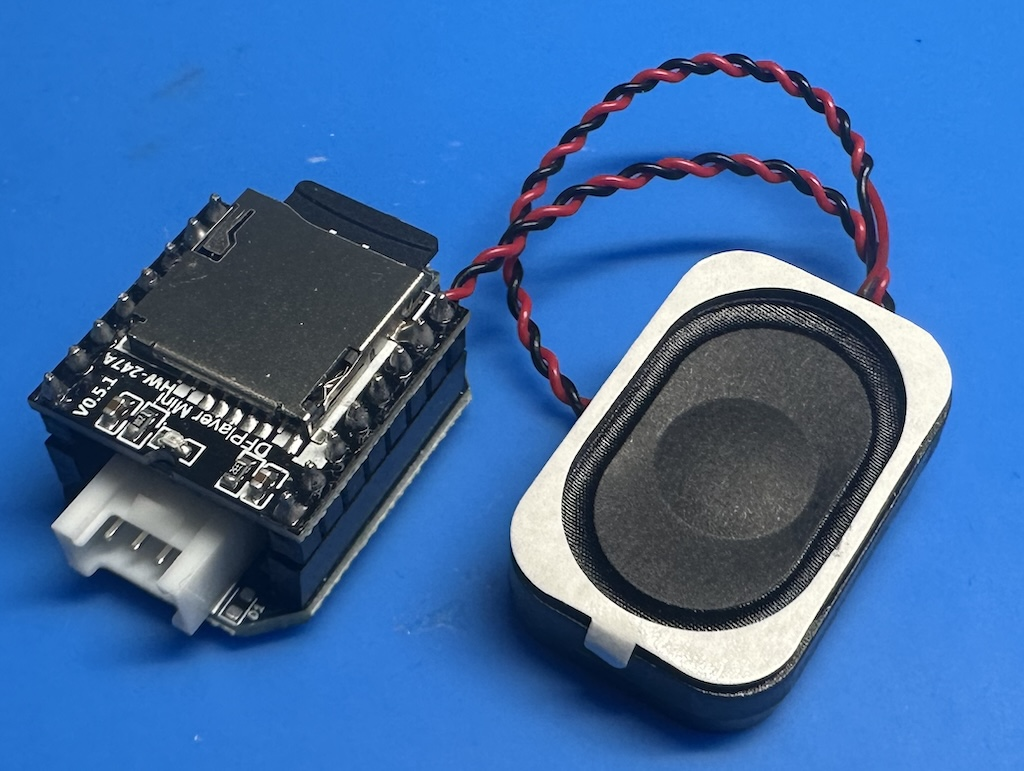
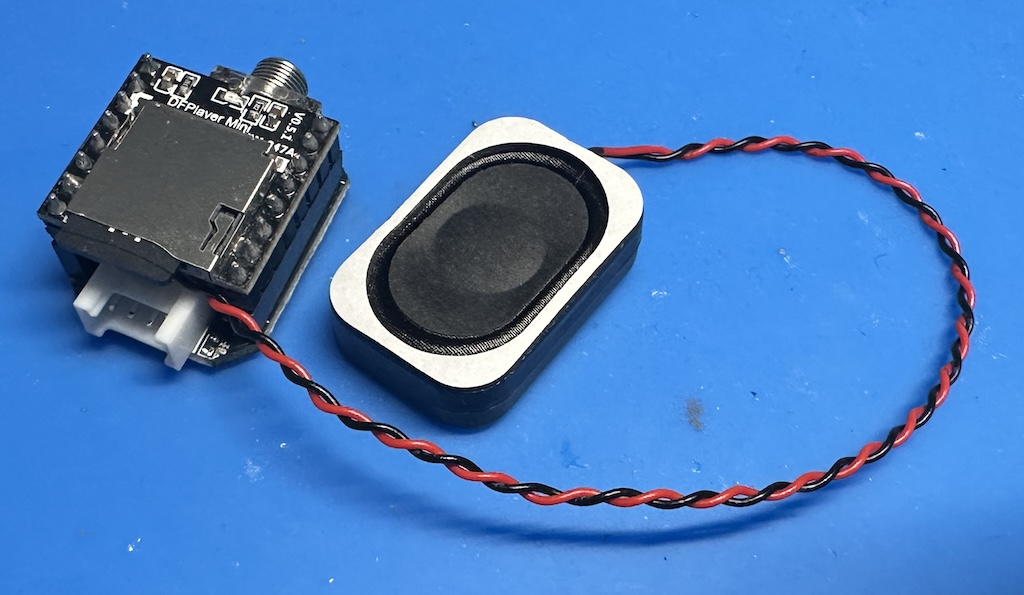
update photo

diff --git a/README.md b/README.md
@@ -29,8 +29,7 @@ DFRobotの音声プレーヤモジュール[DFPlayer(DFPlayerMini)](https://www.
 
 基板中央部の1.25mmピッチコネクタ(Molex 53047-0210用)にスピーカを接続します。市販の小型スピーカ（M5Stack本体に使われているものなど。AliExpressやTaobaoでも同等品があります）を接続することができます。
 
-※こちらの2つめのスピーカつき写真では、DFPlayerMiniの向きが逆になっています。写真は近日中に差し替えます。申し訳ありません。
-
+※当初掲載していた"DFPlayerMini"をとりつけた状態の写真で、DFPlayerMiniの向きが逆になっていました。こちらの写真が正しいです。
 
 ### 3.5mmジャックに直接スピーカを接続する方法
 
